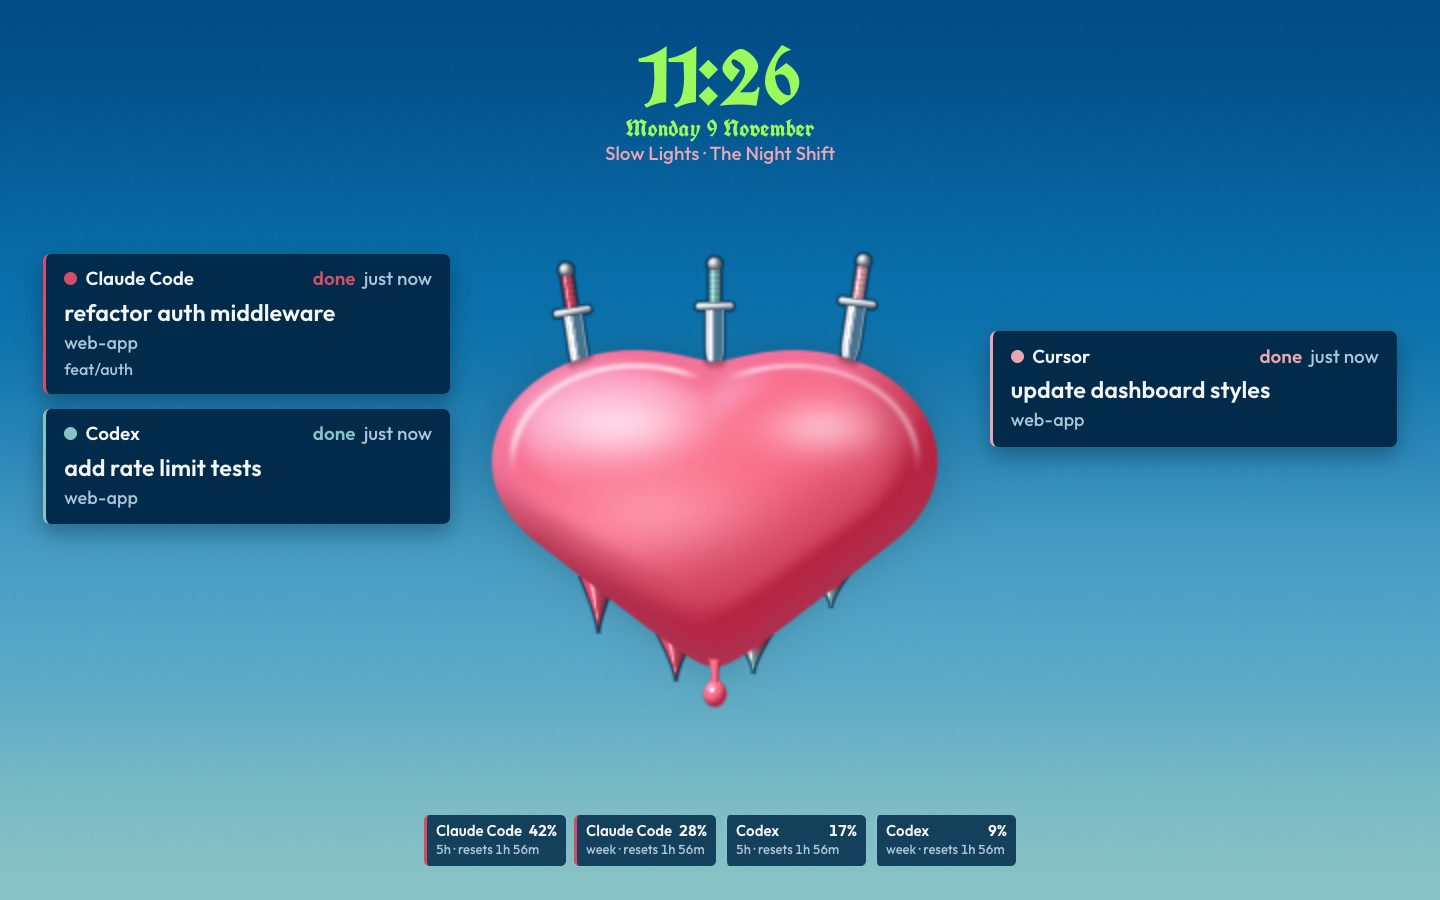
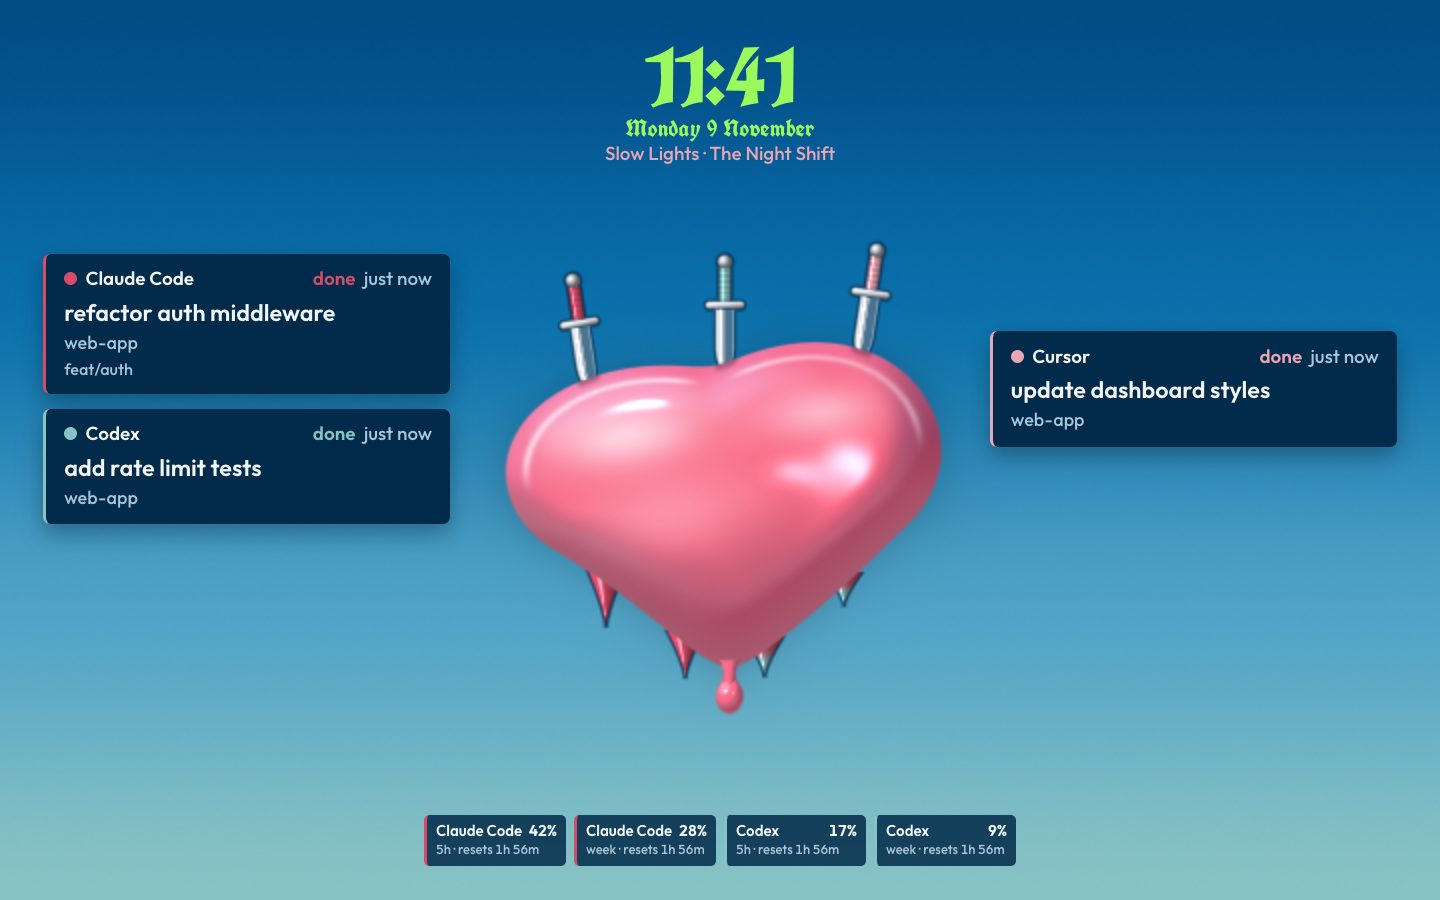
feat(favourite): visible liquid motion for the heart

Changed region(s): [[0.3438, 0.2489, 0.6562, 0.8089], [0.4375, 0.0311, 0.5625, 0.1244]]

diff --git a/themes/favourite/stavgayer.favourite-ground/index.js b/themes/favourite/stavgayer.favourite-ground/index.js
@@ -14,8 +14,8 @@
 // the heart's pink liquid hanging from its bottom point: it grows with the song
 // and falls once at its end.
 //
-// The heart is liquid: its outline and its surface wobble slowly like an inflated
-// balloon (waves of 20 to 35 s, about 2% of its size), the light sliding over it,
+// The heart is liquid: its outline and its surface flow like an inflated balloon
+// (a two-layer warp of waves of 6 to 14 s, 5 to 8% of its size), the light flowing with it,
 // and the daggers, the spikes and the drip stay on its moving edge. It also
 // breathes (about 1.5% every 8 s), and the whole picture drifts a few pixels over
 // minutes against burn-in. JavaScript works out every moving value and the
@@ -164,24 +164,33 @@
   // How much the height is squashed: the plain shape is 1.207 + 2 * round wide and
   // lobe + lobeRadius + 2 * round tall, in heart units.
   HEART.squash = (HEART.aspect * (HEART.lobe[1] + HEART.lobeRadius + 2 * HEART.round)) / HEART.units;
-  // The liquid wobble: the heart's outline and surface move like an inflated
-  // balloon. A point p of heart space shows the heart at p - wobble(p, t): a sum
-  // of slow waves, each [x amount, y amount, x wave number, y wave number, radians
-  // per second, phase], plus slow swells that grow or shrink the heart around
-  // its centre ([amount, x wave number, y wave number, radians per second, phase]).
-  // Amounts in heart-box sides: about 2% at most. The waves take 20 to 35 s.
+  // The liquid wobble: the heart's outline and surface flow like an inflated
+  // balloon or a liquid blob. A point p of heart space shows the heart at
+  // p - wobble(p, t). The wobble is a domain warp in two layers, so bulges travel
+  // across the surface instead of the outline only shifting:
+  //   waves: slow waves, each [x amount, y amount, x wave number, y wave number,
+  //     radians per second, phase];
+  //   flow: more waves of the same form, read at p moved by the first layer
+  //     (waves feeding into waves);
+  //   swells: grow or shrink the heart around its centre, also read at the moved
+  //     point ([amount, x wave number, y wave number, radians per second, phase]).
+  // Amounts in heart-box sides: together about 5 to 8% of the heart's size. The
+  // waves take 6 to 14 s, so a few seconds of watching show the heart flow.
   var WOBBLE = {
     waves: [
-      [0, 0.009, 2.6, 0.5, 0.29, 0],
-      [0, 0.005, -4.1, 1.1, -0.21, 1.3],
-      [0.008, 0, 0.6, 2.4, 0.25, 0.5],
-      [0.005, 0, -1.2, 3.7, -0.18, 2.1],
+      [0.012, 0.03, 2.4, 0.9, 0.62, 0],
+      [0.026, 0.008, 0.8, 2.7, -0.53, 1.9],
+    ],
+    flow: [
+      [0, 0.022, -3.4, 1.6, 0.81, 0.7],
+      [0.018, 0, 1.3, 3.2, 0.71, 2.6],
+      [0.01, 0.01, 4.1, -2.2, -0.95, 4.2],
     ],
     swells: [
-      [0.02, 2.1, -1.6, 0.2, 0.7],
+      [0.06, 2.3, -1.8, 0.47, 0.7],
     ],
-    calm: [0.3, -0.34, 0.05], // near the point the wobble shrinks to this share, from y = -0.34 up to 0.05, so the point stays a point
-    still: 216.5, // the moment shown with "Reduce motion": the calmest, closest to the still heart
+    calm: [0.25, -0.34, 0.05], // near the point the wobble shrinks to this share, from y = -0.34 up to 0.05, so the point stays a point
+    still: 0, // the moment shown with "Reduce motion" (set below: the calmest moment)
   };
   var BREATH_S = 8, BREATH = 0.015; // one breath every 8 s, ±1.5% of the size
   var DRIFT_VMIN = 0.6; // how far the picture drifts, about 5 px on a laptop
@@ -219,7 +228,7 @@
   // song passes 99%.
   var DRIP = {
     full: 0.13, // the thread's length at the song's end: about as long as a full spike
-    drop: 0.026, // the drop's radius
+    drop: 0.03, // the drop's radius
     fallAt: 0.99,
   };
   var DRIP_FALL_MS = 600;
@@ -231,6 +240,11 @@
 
   // A number as a GLSL float.
   function glsl(value) { return value.toFixed(4); }
+
+  // One wave of WOBBLE as a GLSL line, read at the point named `at`.
+  function glslWave(w, at) {
+    return "  o += vec2(" + glsl(w[0]) + ", " + glsl(w[1]) + ") * sin(" + glsl(w[2]) + " * " + at + ".x + " + glsl(w[3]) + " * " + at + ".y + " + glsl(w[4]) + " * uWobble + " + glsl(w[5]) + ");";
+  }
 
   function easeOut(t) { return 1 - Math.pow(1 - t, 3); }
 
@@ -259,24 +273,48 @@
     return (d - HEART.round) / HEART.units;
   }
 
+  // One layer of waves at (x, y) at moment t, added to `o` ([x, y]).
+  function wavesAt(waves, x, y, t, o) {
+    waves.forEach(function (w) {
+      var s = Math.sin(w[2] * x + w[3] * y + w[4] * t + w[5]);
+      o[0] += w[0] * s;
+      o[1] += w[1] * s;
+    });
+    return o;
+  }
+
   // How far the wobble moves the heart at (x, y) at moment t (seconds), as [x, y]:
   // the same sums as wobble() in the shader.
   function wobbleAt(x, y, t) {
-    var ox = 0, oy = 0;
-    WOBBLE.waves.forEach(function (w) {
-      var s = Math.sin(w[2] * x + w[3] * y + w[4] * t + w[5]);
-      ox += w[0] * s;
-      oy += w[1] * s;
-    });
+    var o = wavesAt(WOBBLE.waves, x, y, t, [0, 0]);
+    var mx = x + o[0], my = y + o[1]; // where the second layer is read
+    wavesAt(WOBBLE.flow, mx, my, t, o);
     WOBBLE.swells.forEach(function (w) {
-      var s = w[0] * Math.sin(w[1] * x + w[2] * y + w[3] * t + w[4]);
-      ox += x * s;
-      oy += y * s;
+      var s = w[0] * Math.sin(w[1] * mx + w[2] * my + w[3] * t + w[4]);
+      o[0] += x * s;
+      o[1] += y * s;
     });
     var c = WOBBLE.calm, k = Math.min(1, Math.max(0, (y - c[1]) / (c[2] - c[1])));
     var calm = c[0] + (1 - c[0]) * k * k * (3 - 2 * k); // a smoothstep, as in the shader
-    return [ox * calm, oy * calm];
+    return [o[0] * calm, o[1] * calm];
   }
+
+  // The calmest moment for "Reduce motion": the smallest wobble over the heart
+  // in the first ten minutes, sampled once at load.
+  WOBBLE.still = (function () {
+    var best = 0, least = Infinity;
+    for (var t = 0; t < 600; t += 0.5) {
+      var sum = 0;
+      for (var x = -0.5; x <= 0.5; x += 0.1) {
+        for (var y = -0.36; y <= 0.36; y += 0.08) {
+          var o = wobbleAt(x, y, t);
+          sum += o[0] * o[0] + o[1] * o[1];
+        }
+      }
+      if (sum < least) { least = sum; best = t; }
+    }
+    return best;
+  })();
 
   // The moving heart's distance at (x, y), as the shader draws it at moment t.
   function fieldAt(x, y, t) {
@@ -377,18 +415,34 @@
     // The wobble and the moving heart, from the same numbers as wobbleAt and fieldAt.
     "vec2 wobble(vec2 p) {",
     "  vec2 o = vec2(0.0);",
-  ].concat(WOBBLE.waves.map(function (w) {
-    return "  o += vec2(" + glsl(w[0]) + ", " + glsl(w[1]) + ") * sin(" + glsl(w[2]) + " * p.x + " + glsl(w[3]) + " * p.y + " + glsl(w[4]) + " * uWobble + " + glsl(w[5]) + ");";
-  }), WOBBLE.swells.map(function (w) {
-    return "  o += p * " + glsl(w[0]) + " * sin(" + glsl(w[1]) + " * p.x + " + glsl(w[2]) + " * p.y + " + glsl(w[3]) + " * uWobble + " + glsl(w[4]) + ");";
+  ].concat(WOBBLE.waves.map(function (w) { return glslWave(w, "p"); }), [
+    "  vec2 m = p + o; // where the second layer is read",
+  ], WOBBLE.flow.map(function (w) { return glslWave(w, "m"); }), WOBBLE.swells.map(function (w) {
+    return "  o += p * " + glsl(w[0]) + " * sin(" + glsl(w[1]) + " * m.x + " + glsl(w[2]) + " * m.y + " + glsl(w[3]) + " * uWobble + " + glsl(w[4]) + ");";
   }), [
     "  return o * mix(" + glsl(WOBBLE.calm[0]) + ", 1.0, smoothstep(" + glsl(WOBBLE.calm[1]) + ", " + glsl(WOBBLE.calm[2]) + ", p.y));",
     "}",
     "float body(vec2 p) { return heart(p - wobble(p)); }",
-    // The heart's skin, airbrushed like the covers: hot pink lit softly from the
+    // The liquid's surface flow: cheap value noise in two octaves, warped by
+    // itself (noise into noise), tilting the surface only. The outline keeps the
+    // wave warp above, which the daggers can follow exactly; this moves only the
+    // light, so the highlights flow and swirl like thick liquid.
+    "float vnoise(vec2 p) {",
+    "  vec2 i = floor(p), f = fract(p);",
+    "  f = f * f * (3.0 - 2.0 * f);",
+    "  return mix(mix(hash(i), hash(i + vec2(1.0, 0.0)), f.x), mix(hash(i + vec2(0.0, 1.0)), hash(i + vec2(1.0, 1.0)), f.x), f.y);",
+    "}",
+    "float fbm2(vec2 p) { return 0.65 * vnoise(p) + 0.35 * vnoise(p * 2.03 + vec2(3.1, 1.7)); }",
+    "vec2 flow(vec2 q) {",
+    "  vec2 s = q * 2.4 + 20.0;",
+    "  vec2 a = vec2(fbm2(s + vec2(0.0, 0.11 * uWobble)), fbm2(s + vec2(5.2, 1.3) - 0.09 * uWobble));",
+    "  return vec2(fbm2(s + 2.2 * a + vec2(1.7, 9.2)), fbm2(s + 2.2 * a + vec2(8.3, 2.8))) - 0.5;",
+    "}",
+    // The heart's skin, thick glossy pink liquid: hot pink lit softly from the
     // upper left, deep pink to dark red away from the light, a touch of magenta
-    // at the edge and a little of the sky in the lower rim. While an agent waits,
-    // a lime light comes on: the lit side, the rim and the highlights take lime.
+    // at the edge, and in the darker parts a soft reflection of the blue sky, like
+    // liquid chrome. While an agent waits, a lime light comes on: the lit side,
+    // the rim, the reflections and the highlights take lime.
     "const vec3 LAMP = vec3(" + [-0.4, 0.55, 0.75].map(function (v) { return glsl(v / Math.hypot(0.4, 0.55, 0.75)); }).join(", ") + ");",
     "vec3 surface(vec3 n, float rim) {",
     "  float lit = clamp(dot(n, LAMP), 0.0, 1.0);",
@@ -396,24 +450,34 @@
     "  c = mix(c, BODY, smoothstep(0.36, 0.72, lit));",
     "  c = mix(c, LIGHT, 0.7 * smoothstep(0.8, 1.0, lit));",
     "  c = mix(c, RIM, 0.4 * rim * smoothstep(0.3, 0.7, lit));",
-    "  float fres = pow(1.0 - n.z, 3.0);",
-    "  c = mix(c, mix(SKY2, LIME, uLime), 0.35 * fres * smoothstep(0.1, -0.6, n.y));",
+    "  vec3 r = reflect(vec3(0.0, 0.0, -1.0), n);",
+    "  vec3 mirrored = mix(mix(SKY3, SKY1, smoothstep(-0.3, 0.7, r.y)), LIME, uLime); // the sky the liquid mirrors",
+    "  float fres = pow(1.0 - n.z, 2.5);",
+    "  c = mix(c, mirrored, 0.24 * (1.0 - smoothstep(0.25, 0.7, lit)) + 0.3 * fres * smoothstep(0.1, -0.6, n.y));",
     "  return mix(c, LIME * (0.55 + 0.5 * lit), 0.22 * uLime * smoothstep(0.5, 0.95, lit));",
     "}",
     "vec3 hotLight() { return mix(PEARL, LIME + 0.15, uLime); }",
-    "vec3 gloss(vec3 n) { return hotLight() * 0.7 * pow(max(dot(reflect(vec3(0.0, 0.0, -1.0), n), LAMP), 0.0), 16.0); }",
+    // Sharp glints like liquid chrome: two small lights, upper left and upper right.
+    "vec3 gloss(vec3 n) {",
+    "  vec3 r = reflect(vec3(0.0, 0.0, -1.0), n);",
+    "  float s = pow(max(dot(r, vec3(" + [-0.5, 0.6, 0.62].map(function (v) { return glsl(v / Math.hypot(0.5, 0.6, 0.62)); }).join(", ") + ")), 0.0), 70.0);",
+    "  s += 0.6 * pow(max(dot(r, vec3(" + [0.55, 0.45, 0.7].map(function (v) { return glsl(v / Math.hypot(0.55, 0.45, 0.7)); }).join(", ") + ")), 0.0), 120.0);",
+    "  return hotLight() * min(s, 1.2);",
+    "}",
     // The surface: one soft dome over the whole heart and a rim that bends away,
-    // both carried along by the wobble, so the light slides over the skin as it
-    // moves. On it, soft broad highlights on the lobes and one thin, soft band
-    // that follows the top edge a little inside it.
+    // both carried along by the wobble, and tilted by the wobble itself, so the
+    // bulges catch the light like a metaball and the light flows over the skin.
+    // On it, soft broad highlights on the lobes, sharp glints, and one thin, soft
+    // band that follows the top edge a little inside it.
     "vec3 skin(vec2 p, float d) {",
-    "  vec2 q = p - wobble(p); // the same spot of skin while the heart moves",
+    "  vec2 w = wobble(p);",
+    "  vec2 q = p - w; // the same spot of skin while the heart moves",
     "  float e = 0.004;",
     "  vec2 g = vec2(body(p + vec2(e, 0.0)) - body(p - vec2(e, 0.0)), body(p + vec2(0.0, e)) - body(p - vec2(0.0, e)));",
     "  g = g / max(length(g), 1e-5);",
     "  float rim = 1.0 - clamp(-d / 0.16, 0.0, 1.0);",
     "  vec2 dome = (q - vec2(-0.04, 0.06)) * vec2(1.5, 2.3);",
-    "  vec3 n = normalize(vec3(dome + g * 2.0 * rim * rim, 1.0));",
+    "  vec3 n = normalize(vec3(dome + g * 2.0 * rim * rim + w * 7.0 + 0.45 * flow(q) * (1.0 - rim), 1.0));",
     "  vec3 c = surface(n, rim * rim);",
     "  float glow = 0.85 * exp(-dot2((q - vec2(-0.22, 0.2)) / vec2(0.17, 0.075)))",
     "    + 0.6 * exp(-dot2((q - vec2(0.24, 0.19)) / vec2(0.12, 0.06)))",
@@ -422,7 +486,8 @@
     "  band *= 1.0 - 0.45 * smoothstep(-0.1, 0.35, q.x); // brighter on the lit lobe",
     "  vec3 soft = mix(PEARL, LIME + 0.1, 0.7 * uLime); // the broad highlights keep some pink under the lime",
     "  c = mix(c, soft, clamp(glow * (1.0 - 0.2 * uLime), 0.0, 0.9));",
-    "  return mix(c, hotLight(), clamp(0.8 * band, 0.0, 0.9));",
+    "  c = mix(c, hotLight(), clamp(0.8 * band, 0.0, 0.9));",
+    "  return c + gloss(n) * (1.0 - 0.6 * rim);",
     "}",
     // A silver dagger standing on its tip, in its own space: x across, y up the
     // blade from the tip. A glossy blade with a bright ridge, a crossguard, a
@@ -497,12 +562,12 @@
     "  vec2 r = p - uDripAt;",
     "  float len = uDrip.x;",
     "  float t = clamp(-r.y / max(len, 1e-4), 0.0, 1.0);",
-    "  float w = mix(0.014, 0.007, sqrt(t)); // wide where it leaves the heart, thin above the drop",
+    "  float w = mix(0.024, 0.009, sqrt(t)); // thick where it leaves the heart, stretched thin above the drop",
     "  float thread = max(abs(r.x) - w, max(r.y, -r.y - len));",
     "  vec2 b = r - vec2(0.0, -len - uDrip.y - 0.8 * DROP);",
-    "  vec2 bq = b * vec2(1.0, 0.87);",
+    "  vec2 bq = b * vec2(1.0, 0.8); // a drop that hangs heavy, longer than wide",
     "  float ball = length(bq) - DROP;",
-    "  float d = smin(thread, ball, 0.012);",
+    "  float d = smin(thread, ball, 0.018);",
     "  vec2 sx = ball < thread ? bq / DROP : vec2(r.x / w, 0.0); // round across the drop, a tube along the thread",
     "  sx = clamp(sx, -0.98, 0.98);",
     "  vec3 n = normalize(vec3(sx, sqrt(max(0.04, 1.0 - dot(sx, sx)))));",
@@ -554,7 +619,7 @@
 
   window.agentScreensaver.register(function () {
     var box, style, canvas, gl, uniforms = {}, cancelFrame, ctx, lastState;
-    var fps = 12, scale = 0.5, driftMs = 4 * 60000, dirty = true;
+    var fps = 12, scale = 0.5, driftMs = 4 * 60000, dirty = true, startMs = 0;
     var frame, display = "main";
     var skyTop = tween(0); // 0 resting, 1 while an agent waits: the deep sky and the lime light
     var REST_TOP = rgbOf(SKY[0]), CALL_TOP = rgbOf(DEEP_SKY);
@@ -690,7 +755,10 @@
     }
 
     // The wobble's clock in seconds: frozen at one calm moment with "Reduce motion".
-    function wobbleClock(nowMs) { return reduce.matches ? WOBBLE.still : nowMs / 1000; }
+    // It counts from the start, not from 1970: the shader's 32-bit floats would
+    // lose the seconds of a clock that large, and its edge would part from the
+    // edge the daggers find here.
+    function wobbleClock(nowMs) { return reduce.matches ? WOBBLE.still : (nowMs - startMs) / 1000; }
 
     // The drip this moment: the thread's length, how far the drop has fallen and
     // its opacity, or null for no drip. A song with no length hangs it at half
@@ -802,6 +870,7 @@
     var api = {
       start: function (root, context) {
         ctx = context;
+        startMs = ctx.now();
         display = ctx.display || "main";
         var options = ctx.options || {};
         var wantFps = Number(options.fps), wantScale = Number(options.scale), wantDrift = Number(options.drift);

diff --git a/themes/favourite/README.md b/themes/favourite/README.md
@@ -18,18 +18,18 @@ Needs [agent-screensaver 0.5.0](https://github.com/stavgayer/agent-screensaver/r
 
 Each usage limit is one glossy spike under the heart, in its agent's colour. It grows longer the more of the limit is used, and it is never shorter than 15% of its full length, so it stays visible. A small dark blue plate under each spike gives the agent, the window (`5h`, `week` or `plan`), the percent used and when it resets. A limit the app has not read is left out. A reading that is old is dimmed and shows its age, such as `2h ago`. `est.` marks an estimated reading. `Reset` with 0% shows a window that has reset.
 
-With "Show what's playing" on, the title and the artist show in one small pink line under the date, and a pink drop hangs from the heart's bottom point. It grows as the song plays and falls when it ends. A song that Music streams has no length, so its drop hangs at half length and stays. The song hides while an agent waits for you, and it never shows on the second display.
+With "Show what's playing" on, the title and the artist show in one small pink line under the date, and a thick pink drop hangs from the heart's bottom point. It grows as the song plays and falls when it ends. A song that Music streams has no length, so its drop hangs at half length and stays. The song hides while an agent waits for you, and it never shows on the second display.
 
 Each agent owns one colour from the cover: Claude red `#d34d68`, Codex sea green `#87c2c4`, Cursor pink `#eba6b3`. Other agents get one of those or a light silver by their name. Every dagger handle has a thin dark outline so it reads on the sky. Lime is kept for the time, the date, `needs you` and the dagger of a waiting agent. All small text sits on dark blue plates, so it reads over the sky. Privacy mode keeps working: titles, commands and branches show only when the service sends them. Without a command the approval says "Look at the terminal".
 
 ## Motion
 
-- The heart has the shape of the Favourite cover's heart: wide round lobes, a shallow dip between them, and sides that taper to a soft point. It is wider than it is tall. Its pinks were measured on the Favourite cover and the Romance album heart: hot pink `#f96c87`, deep pink `#d34663` and dark red `#b72342` away from the light, light pink `#feb2d7` where the light falls, and a touch of magenta `#e878bc` at the edge. Soft, broad highlights sit on the lobes and one thin, soft line of light follows the top edge, airbrushed like the covers.
-- The heart is liquid. Its outline and its surface wobble slowly, like an inflated balloon: slow waves that take 20 to 35 seconds and move the edge by about 2% of the heart's size, less near the point. The highlights slide with the surface. The daggers, the spikes and the drip stay on the moving edge. The heart also breathes: a very slow swell of about 1.5% every 8 seconds.
+- The heart has the shape of the Favourite cover's heart: wide round lobes, a shallow dip between them, and sides that taper to a soft point. It is wider than it is tall. It looks like thick, glossy pink liquid. Its pinks were measured on the Favourite cover and the Romance album heart: hot pink `#f96c87`, deep pink `#d34663` and dark red `#b72342` away from the light, light pink `#feb2d7` where the light falls, and a touch of magenta `#e878bc` at the edge. The darker parts softly mirror the blue sky, like liquid chrome. Soft, broad highlights sit on the lobes, small sharp white glints catch the light, and one thin, soft line of light follows the top edge.
+- The heart is liquid. Its outline flows and bulges like a blob of liquid: slow waves that feed into other waves, taking 6 to 14 seconds each and moving the edge by about 5 to 8% of the heart's size, less near the point so the point stays a point. Over a few seconds you see bulges travel across it. The highlights and the glints flow with the surface, and a slow swirl of noise moves the light over it. The daggers, the spikes and the drip stay on the moving edge. The drip is a thick pink drop that stretches from the point. The heart also breathes: a very slow swell of about 1.5% every 8 seconds.
 - The whole picture drifts a few pixels over minutes, so no pixel stays lit in one place. Option `drift` sets the minutes for one drift (4 by default).
 - One move for each event. A new task stabs a dagger in with one short move. A finished task glints once. When an agent needs you, lime floods the heart's highlights and the sky goes deep blue, both over about a second. Nothing pulses.
 - The background is one WebGL shader. It draws at half size (option `scale`) and 12 frames a second (option `fps`, at most 30), and it starts again on its own if the graphics card resets.
-- With "Reduce motion" on in macOS, the picture stands still: the heart does not wobble, breathe or drift, and the picture is drawn again only when something changes. The lime cross-fades in and out, and daggers fade in and out instead of moving.
+- With "Reduce motion" on in macOS, the picture stands still: the heart does not flow, breathe or drift, and the picture is drawn again only when something changes. The lime cross-fades in and out, and daggers fade in and out instead of moving.
 
 ## What is in this folder
 
